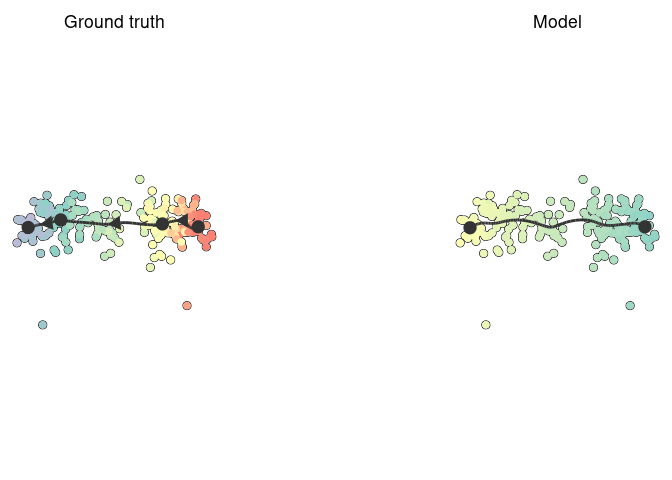
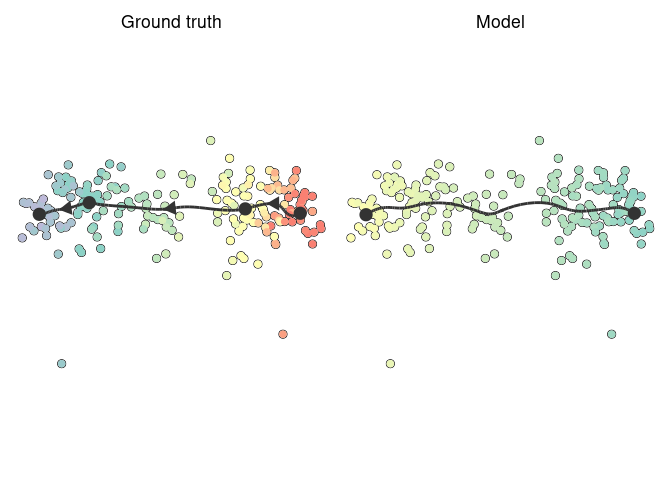
update description

diff --git a/docs/description.md b/docs/description.md
@@ -162,12 +162,11 @@ dimred <- groundtruth$dimred
 # plot both the groundtruth and model
 patchwork::wrap_plots(
   dynplot::plot_dimred(groundtruth, dimred = dimred) + ggtitle("Ground truth"),
-  patchwork::plot_spacer(),
   dynplot::plot_dimred(model, dimred = dimred) + ggtitle("Model")
 )
 ```
 
-![](description_files/figure-gfm/unnamed-chunk-6-1.png)<!-- -->
+![](description_files/figure-gfm/unnamed-chunk-7-1.png)<!-- -->
 
 ## Further reading
 
